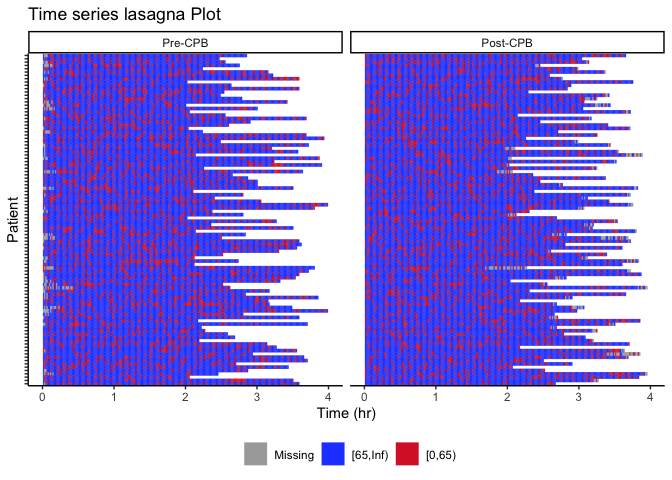
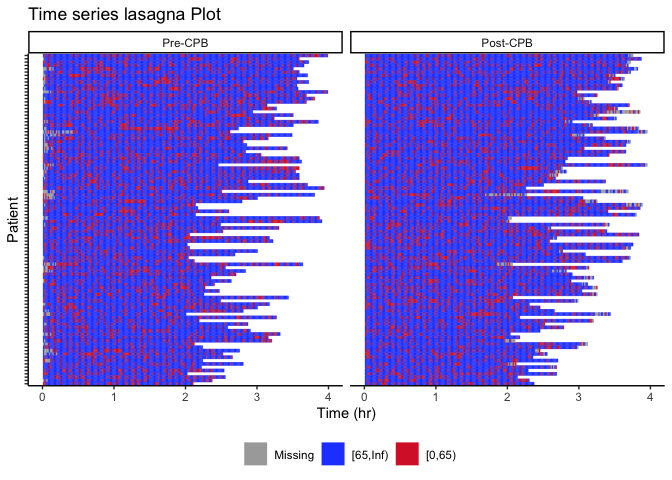
update reamde

diff --git a/README.md b/README.md
@@ -18,17 +18,8 @@ You can install the development version of bloodlines from
 pak::pak("jhuwit/bloodlines")
 #> ℹ Loading metadata database✔ Loading metadata database ... done
 #>  
-#> → Will update 1 package.
-#> → Will download 1 package with unknown size.
-#> + bloodlines 0.0.0.9000 → 0.0.0.9000 👷🏾🔧 ⬇ (GitHub: d9260f0)
-#> ℹ Getting 1 pkg with unknown size
-#> ✔ Got bloodlines 0.0.0.9000 (source) (1.59 MB)
-#> ℹ Packaging bloodlines 0.0.0.9000
-#> ✔ Packaged bloodlines 0.0.0.9000 (1.1s)
-#> ℹ Building bloodlines 0.0.0.9000
-#> ✔ Built bloodlines 0.0.0.9000 (4.1s)
-#> ✔ Installed bloodlines 0.0.0.9000 (github::jhuwit/bloodlines@d9260f0) (65ms)
-#> ✔ 1 pkg + 32 deps: kept 20, upd 1, dld 1 (NA B) [18.6s]
+#> ℹ No downloads are needed
+#> ✔ 1 pkg + 32 deps: kept 21 [9.5s]
 ```
 
 ## Lasagna plots
@@ -56,6 +47,8 @@ sample_df_clean =
                                  levels = c("pre", "post"),
                                  labels = c("Pre-CPB", "Post-CPB")),
                 time = time / 60)
+
+# paletteer::paletteer_d("colorBlindness::Blue2DarkRed12Steps")
 cols = c("[0,65)" = "#D82632FF",
                "[65,Inf)" = "#264DFFFF",
                "Missing" = "darkgrey")
@@ -79,6 +72,13 @@ plot_lasagna(data = sample_df_clean,
 
 ``` r
 
+
+sample_df_clean2 = 
+  sample_df_clean %>% 
+  dplyr::group_by(id) %>% 
+  dplyr::mutate(n = dplyr::n()) %>% 
+  dplyr::ungroup() %>% 
+  dplyr::mutate(id = forcats::fct_reorder(id, n))
 plot_ts_lasagna(sample_df %>% dplyr::filter(cat_cpb != "intra"),
              facet_var = "cat_cpb",
              layer_var = "map_cat")
@@ -89,7 +89,7 @@ plot_ts_lasagna(sample_df %>% dplyr::filter(cat_cpb != "intra"),
 ``` r
 
 
-plot_ts_lasagna(data = sample_df_clean,
+plot_ts_lasagna(data = sample_df_clean2,
              facet_var = "cat_cpb",
              layer_var = "map_cat",
              xlab = "Time (hr)",
